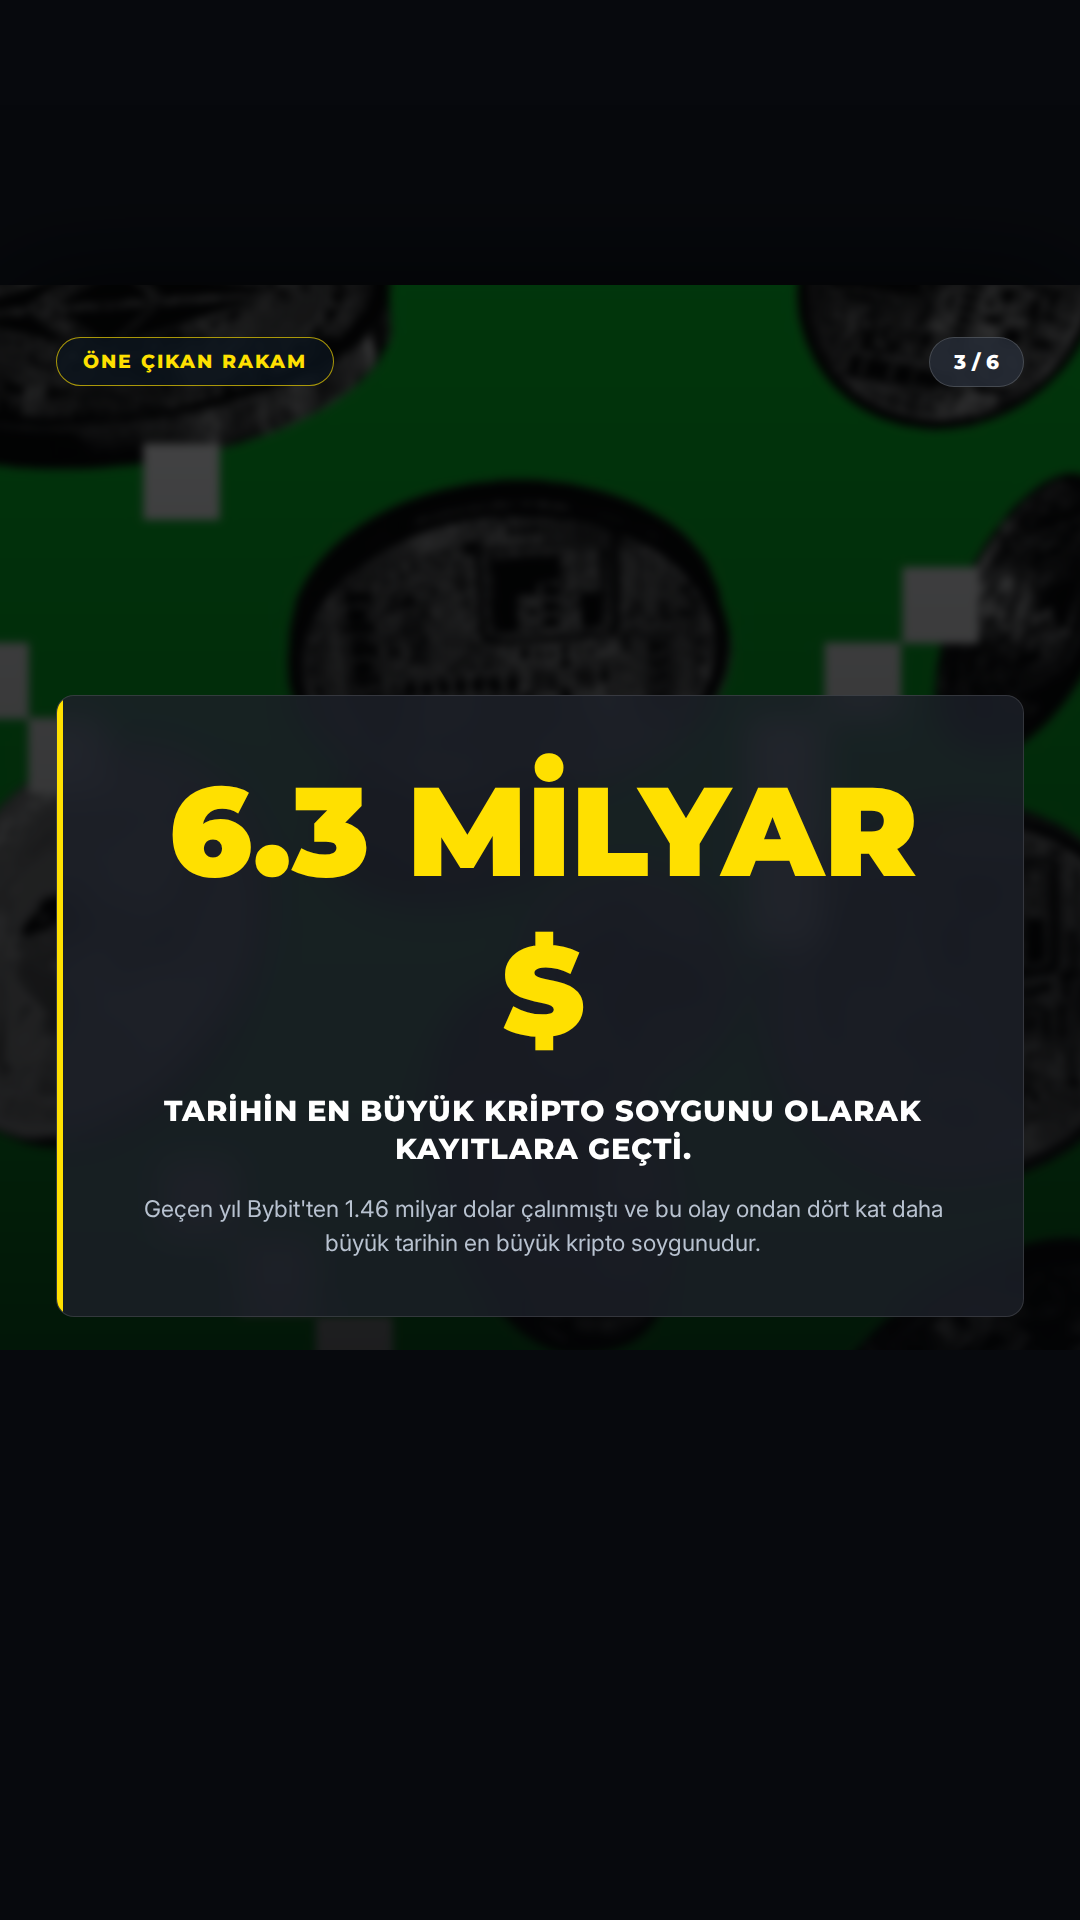
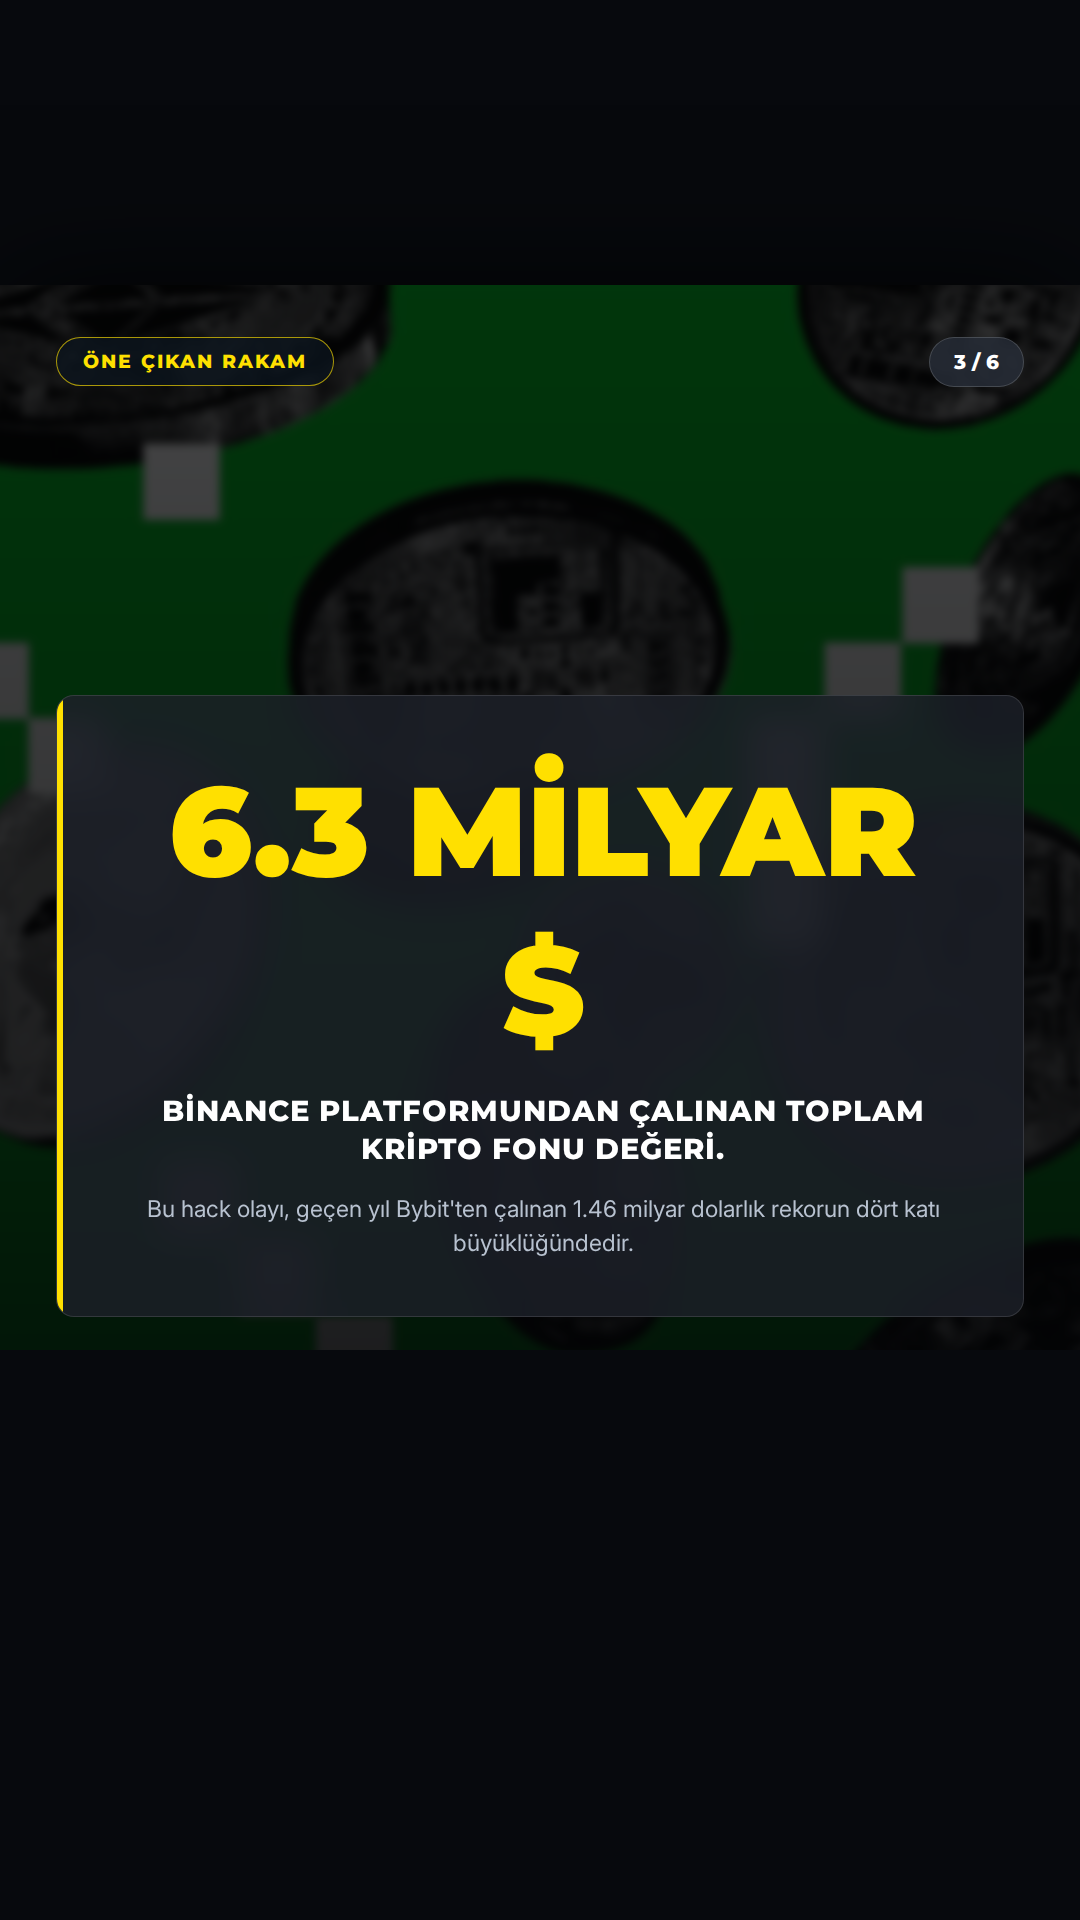
🤖 post: 2026-10-30 15:00 – Binance hackers stole $6.3 billion in record-breaking crypto

Changed region(s): [[0.1528, 0.5625, 0.8861, 0.6562]]

diff --git a/output/2026-10-30/03-1500-binance-hackers-stole-6-3-billion-in-record-brea/verification.md b/output/2026-10-30/03-1500-binance-hackers-stole-6-3-billion-in-record-brea/verification.md
@@ -3,7 +3,7 @@
 **Haber:** Binance hackers stole $6.3 billion in record-breaking crypto heist
 **Canonical URL:** https://www.theverge.com/tech/1023021/binance-hack-billions-biggest-crypto-heist
 **Kaynaklar:** The Verge, Wired, BBC News – Technology, Engadget
-**Kontrol zamanı:** 2026-10-30T14:48:52+03:00
+**Kontrol zamanı:** 2026-10-30T14:57:01+03:00
 **Sonuç:** ✅ YAYINLANABİLİR
 
 ---
@@ -14,51 +14,51 @@
 - **Karar:** ✅ `supported`
 - **Kanıtlar:**
   - [https://www.theverge.com/tech/1023021/binance-hack-billions-biggest-crypto-heist](https://www.theverge.com/tech/1023021/binance-hack-billions-biggest-crypto-heist)
-    > Binance has disclosed that $6.3 billion worth of crypto funds have been stolen from the platform, in what’s believed to be the biggest cryptocurrency hack on record.
-  - [https://www.theverge.com/tech/1023021/binance-hack-billions-biggest-crypto-heist](https://www.theverge.com/tech/1023021/binance-hack-billions-biggest-crypto-heist)
     > Binance has disclosed that $6.3 billion worth of crypto funds have been stolen from the platform
 
-### 2. Çalınan varlıkların yaklaşık 3 milyar dolarlık kısmı şu ana kadar donduruldu.
+### 2. Etkilenen varlıkların yaklaşık 3 milyar doları şu ana kadar donduruldu.
 - **Karar:** ✅ `supported`
 - **Kanıtlar:**
   - [https://www.theverge.com/tech/1023021/binance-hack-billions-biggest-crypto-heist](https://www.theverge.com/tech/1023021/binance-hack-billions-biggest-crypto-heist)
-    > In a series of updates posted to X, the crypto exchange said that user funds are safe, and that around $3 billion of the impacted assets have been frozen so far.
+    > around $3 billion of the impacted assets have been frozen so far.
+  - [https://www.theverge.com/tech/1023021/binance-hack-billions-biggest-crypto-heist](https://www.theverge.com/tech/1023021/binance-hack-billions-biggest-crypto-heist)
+    > and that around $3 billion of the impacted assets have been frozen so far.
 
-### 3. Binance, kullanıcı varlıklarını korumak için yaklaşık 1.3 milyar dolarlık acil durum rezerv fonuna sahip olduğunu belirtti.
+### 3. Binance, kullanıcı varlıklarını korumak için yaklaşık 1.3 milyar dolarlık acil durum rezerv fonuna sahip.
 - **Karar:** ✅ `supported`
 - **Kanıtlar:**
   - [https://www.theverge.com/tech/1023021/binance-hack-billions-biggest-crypto-heist](https://www.theverge.com/tech/1023021/binance-hack-billions-biggest-crypto-heist)
     > The company has an emergency reserve fund of around $1.3 billion (at last valuation) to protect user assets in these situations
 
-### 4. Binance, olayı karşılamak için 6.34 milyar dolardan fazla şirket fonu ayırdığını ve bunun 5 milyar dolarının etkilenen token varlıkları olarak tutulduğunu açıkladı.
+### 4. Binance, bu olayı karşılamak için 6.34 milyar dolardan fazla şirket fonu ayırdı ve bunun 5 milyar doları etkilenen token varlıkları olarak tutuluyor.
 - **Karar:** ✅ `supported`
 - **Kanıtlar:**
   - [https://www.theverge.com/tech/1023021/binance-hack-billions-biggest-crypto-heist](https://www.theverge.com/tech/1023021/binance-hack-billions-biggest-crypto-heist)
-    > and said it has also reserved over $6.34 billion of company funds to cover this incident — $5 billion of which is “already held in the exact token assets that were impacted.”
-  - [https://www.theverge.com/tech/1023021/binance-hack-billions-biggest-crypto-heist](https://www.theverge.com/tech/1023021/binance-hack-billions-biggest-crypto-heist)
     > said it has also reserved over $6.34 billion of company funds to cover this incident — $5 billion of which is “already held in the exact token assets that were impacted.”
+  - [https://www.theverge.com/tech/1023021/binance-hack-billions-biggest-crypto-heist](https://www.theverge.com/tech/1023021/binance-hack-billions-biggest-crypto-heist)
+    > and said it has also reserved over $6.34 billion of company funds to cover this incident — $5 billion of which is “already held in the exact token assets that were impacted.”
 
-### 5. Binance, bir DevOps mühendisinin ele geçirilen dizüstü bilgisayarının saldırıda rol oynadığını bildirdi.
+### 5. Binance, bir DevOps mühendisinin ele geçirilen dizüstü bilgisayarının saldırganın bir servis konteynerine erişmesine izin verdiğini açıkladı.
 - **Karar:** ✅ `supported`
 - **Kanıtlar:**
   - [https://www.theverge.com/tech/1023021/binance-hack-billions-biggest-crypto-heist](https://www.theverge.com/tech/1023021/binance-hack-billions-biggest-crypto-heist)
     > The company shared details about the compromised laptop that belongs to one of its DevOps engineers in a prior update, saying it allowed an attacker to access a service container and submit unauthorized withdrawal transactions.
 
-### 6. Blokzincir analiz firmaları TRM ve Chainalysis, saldırıyı Kuzey Koreli siber suç grubu TraderTraitor'a atfetti.
+### 6. Blokzincir analiz firmaları TRM ve Chainalysis saldırıyı Kuzey Koreli siber suç grubu TraderTraitor'a atfediyor.
 - **Karar:** ✅ `supported`
 - **Kanıtlar:**
   - [https://www.theverge.com/tech/1023021/binance-hack-billions-biggest-crypto-heist](https://www.theverge.com/tech/1023021/binance-hack-billions-biggest-crypto-heist)
-    > blockchain analysis firms TRM and Chainalysis both attribute it to TraderTraitor, a North Korean cybercrime hacking group
+    > blockchain analysis firms TRM and Chainalysis both attribute it to TraderTraitor, a North Korean cybercrime hacking group that has a history of stealing funds from cryptocurrency exchanges.
   - [https://www.theverge.com/tech/1023021/binance-hack-billions-biggest-crypto-heist](https://www.theverge.com/tech/1023021/binance-hack-billions-biggest-crypto-heist)
-    > Binance may not be pointing fingers at who’s behind the attack, but blockchain analysis firms TRM and Chainalysis both attribute it to TraderTraitor, a North Korean cybercrime hacking group
+    > blockchain analysis firms TRM and Chainalysis both attribute it to TraderTraitor, a North Korean cybercrime hacking group
 
-### 7. Geçen yıl Bybit'ten 1.46 milyar dolar çalınmıştı ve bu olay ondan dört kat daha büyük tarihin en büyük kripto soygunudur.
+### 7. Bu hack olayı, geçen yıl Bybit'ten çalınan 1.46 milyar dolarlık rekorun dört katı büyüklüğündedir.
 - **Karar:** ✅ `supported`
 - **Kanıtlar:**
   - [https://www.theverge.com/tech/1023021/binance-hack-billions-biggest-crypto-heist](https://www.theverge.com/tech/1023021/binance-hack-billions-biggest-crypto-heist)
     > This is the largest known cryptocurrency heist in history— four times higher than the previous record, when $1.46 billion was stolen from Bybit last year
 
-### 8. Binance, 2019 yılında 40 milyon dolar değerinde kripto varlığın çalındığı bir güvenlik ihlali yaşamıştı.
+### 8. Binance 2019 yılında da bir güvenlik ihlali yaşamış ve o dönemki değerle 40 milyon dolar değerinde kripto varlık çalınmıştı.
 - **Karar:** ✅ `supported`
 - **Kanıtlar:**
   - [https://www.theverge.com/tech/1023021/binance-hack-billions-biggest-crypto-heist](https://www.theverge.com/tech/1023021/binance-hack-billions-biggest-crypto-heist)
@@ -71,13 +71,13 @@
 | İddia | 1. Tur | 2. Tur | Nihai |
 |-------|--------|--------|-------|
 | Binance platformundan 6.3 milyar dolar değerinde kripto fonu | supported | supported | supported |
-| Çalınan varlıkların yaklaşık 3 milyar dolarlık kısmı şu ana  | supported | supported | supported |
+| Etkilenen varlıkların yaklaşık 3 milyar doları şu ana kadar  | supported | supported | supported |
 | Binance, kullanıcı varlıklarını korumak için yaklaşık 1.3 mi | supported | supported | supported |
-| Binance, olayı karşılamak için 6.34 milyar dolardan fazla şi | supported | supported | supported |
+| Binance, bu olayı karşılamak için 6.34 milyar dolardan fazla | supported | supported | supported |
 | Binance, bir DevOps mühendisinin ele geçirilen dizüstü bilgi | supported | supported | supported |
-| Blokzincir analiz firmaları TRM ve Chainalysis, saldırıyı Ku | supported | supported | supported |
-| Geçen yıl Bybit'ten 1.46 milyar dolar çalınmıştı ve bu olay  | supported | supported | supported |
-| Binance, 2019 yılında 40 milyon dolar değerinde kripto varlı | supported | supported | supported |
+| Blokzincir analiz firmaları TRM ve Chainalysis saldırıyı Kuz | supported | supported | supported |
+| Bu hack olayı, geçen yıl Bybit'ten çalınan 1.46 milyar dolar | supported | supported | supported |
+| Binance 2019 yılında da bir güvenlik ihlali yaşamış ve o dön | supported | supported | supported |
 
 ## Kaynak Metinleri
 

diff --git a/output/2026-10-30/03-1500-binance-hackers-stole-6-3-billion-in-record-brea/captions.md b/output/2026-10-30/03-1500-binance-hackers-stole-6-3-billion-in-record-brea/captions.md
@@ -2,36 +2,42 @@
 
 ## INSTAGRAM
 
-Kripto para tarihinin en büyük soygunu gerçekleşti! Binance platformundan 6.3 milyar dolar değerinde fon çalındı. Olayın arka planında bir DevOps mühendisinin ele geçirilen dizüstü bilgisayarı olduğu bildirildi. Çalınan varlıkların yaklaşık 3 milyar dolarlık kısmı donduruldu ve analiz firmaları saldırıyı Kuzey Koreli TraderTraitor grubuna atfetti. Binance, kullanıcı varlıklarını korumak için 6.34 milyar dolardan fazla şirket fonu ayırdığını açıkladı. Büyük borsalardaki güvenlik açıkları hakkında ne düşünüyorsunuz? Kaynak: The Verge ve Wired.
+Kripto dünyasında şok etkisi yaratan dev siber saldırı! Binance'den 6.3 milyar dolarlık fon çalındı. Bir DevOps mühendisinin bilgisayarı üzerinden gerçekleştirilen saldırı, tarihinin en büyük fon kaybı olarak kayıtlara geçti. Yaklaşık 3 milyar dolar donduruldu ve şirket rezervleriyle önlem alınıyor. Büyük borsalarda saklanan kripto varlıkların güvenliği hakkında ne düşünüyorsunuz? Kaynak: The Verge, Wired
 
-#kripto #binance #güvenlik #sibergüvenlik #hack #teknoloji #haber #crypto #blockchain #security
+#Binance #Kripto #SiberGüvenlik #Blockchain #Haber #Teknoloji #Crypto #Security
 
 ## TIKTOK
 
-Binance'den 6.3 milyar dolarlık dev kripto soygunu! Tarihin en büyük vurgununun detayları neler? Kaynak: The Verge.
+Binance'den 6.3 milyar dolar çalındı! Kripto tarihinin en büyük siber saldırısının detayları ortaya çıktı. Kaynak: The Verge
 
-#kripto #binance #hack #teknoloji #haber
+#Binance #Kripto #Haber #Teknoloji
 
 ## X
 
-Binance platformundan 6.3 milyar dolar değerinde kripto fonu çalındı! Tarihin en büyük soygununda şüpheci gözler Kuzey Koreli siber suç grubu TraderTraitor'a çevrildi. 3 milyar dolarlık varlık donduruldu. Kaynak: Wired.
+Binance'den 6.3 milyar dolarlık kripto fonu çalındı. Kripto tarihinin en büyük siber saldırısının arka planında Kuzey Koreli grup TraderTraitor olduğu belirtiliyor. Yaklaşık 3 milyar dolar donduruldu. Kaynak: The Verge, Wired #Binance #Kripto
 
-#kripto #binance
+#Binance #Kripto
 
 ## THREADS
 
-Binance'de Tarihi Soygun! 💭 Binance platformundan 6.3 milyar dolar değerinde kripto fonu çalındı. Bir DevOps mühendisinin dizüstü bilgisayarının ele geçirilmesiyle gerçekleşen olay, tarihin en büyük kripto vurgunu olarak kayıtlara geçti. Yaklaşık 3 milyar dolar donduruldu. Büyük borsalardaki güvenlik açıkları hakkında ne düşünüyorsunuz? Kaynak: The Verge.
+Binance'den 6.3 Milyar Dolarlık Fon Çalındı!
 
-#kripto
+Kripto tarihinin en büyük siber saldırısı gerçekleşti. Bir mühendisin bilgisayarı üzerinden sızılan sistemde 6.3 milyar dolar kaybolurken, 3 milyar dolar donduruldu.
+
+Büyük borsalarda saklanan kripto varlıkların güvenliği hakkında ne düşünüyorsunuz? 💭
+
+Kaynak: The Verge
+
+#Binance
 
 ## LINKEDIN
 
-Kripto ekosistemi tarihin en büyük güvenlik ihlallerinden biriyle karşı karşıya. Binance platformundan 6.3 milyar dolar değerinde fon çalındı. Bir DevOps mühendisinin ele geçirilen dizüstü bilgisayarının rol oynadığı olayda, blokzincir analiz firmaları saldırıyı Kuzey Koreli TraderTraitor grubuna atfetti. Binance, kullanıcı varlıklarını korumak amacıyla 6.34 milyar dolardan fazla şirket fonu ayırdığını ve 3 milyar dolarlık varlığı dondurduğunu duyurdu. Sektördeki güvenlik standartları yeniden masaya yatırılıyor. Kaynak: The Verge, Wired.
+Kripto ekosistemi, tarihinin en büyük güvenlik ihlallerinden biriyle sarsıldı. Binance platformundan toplam 6.3 milyar dolarlık fon çalındı. Olay, bir DevOps mühendisinin ele geçirilen dizüstü bilgisayarı aracılığıyla servis konteynerine erişilmesiyle gerçekleşti. Blokzincir analiz firmaları saldırıyı Kuzey Koreli TraderTraitor grubuna atfediyor. Etkilenen varlıkların yaklaşık 3 milyar doları dondurulurken, Binance 1.3 milyar dolarlık acil durum rezervi ve şirket fonlarıyla süreci yönetiyor. Sektördeki güvenlik standartlarının gözden geçirilmesi açısından kritik bir dönemeçteyiz. Kaynak: The Verge, Wired
 
-#sibergüvenlik #kriptopara #blokzincir #teknoloji #finans
+#SiberGüvenlik #Blockchain #Teknoloji #Fintech
 
 ## FACEBOOK
 
-Kripto para tarihinin en büyük soygunu Binance'de gerçekleşti! Platformdan 6.3 milyar dolar değerinde fon çalındı. Bir DevOps mühendisinin dizüstü bilgisayarının hedef alındığı olayda, çalınan varlıkların 3 milyar dolarlık kısmı donduruldu. Soruşturmada izler Kuzey Koreli siber suç grubuna çıkarken, Binance kullanıcıları korumak için devasa bir fon ayırdı. Büyük borsalardaki güvenlik açıkları hakkında ne düşünüyorsunuz? Kaynak: The Verge.
+Kripto dünyasında şok: Binance'den 6.3 milyar dolarlık fon çalındı! Kripto tarihinin en büyük siber saldırısında, bir mühendisin bilgisayarı hedef alındı. Yaklaşık 3 milyar dolar donduruldu ve şirket acil durum rezervlerini devreye soktu. Büyük borsalardaki varlıkların güvenliği hakkında ne düşünüyorsunuz? Kaynak: The Verge, Wired
 
-#kripto #binance #hack #teknoloji #haber
+#Binance #Kripto #SiberGüvenlik #Teknoloji
